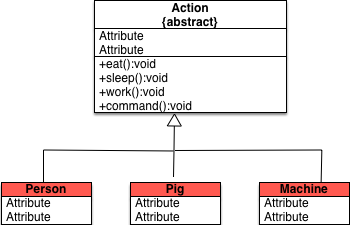
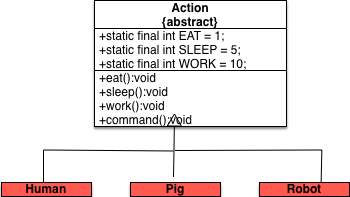
modify files

Changed region(s): [[0.0, 0.0, 1.0, 1.0]]

diff --git a/object_programming/class_object/README.MD b/object_programming/class_object/README.MD
@@ -687,11 +687,84 @@ public class TestDemo {
 #### 举例
 
 ```java
+abstract class Action {
+    public static final int EAT = 1;
+    public static final int SLEEP = 5;
+    public static final int WORK = 10;
+    public abstract void eat();
+    public abstract void sleep();
+    public abstract void work();
+    public void command(int cmd) {
+        switch(cmd) {
+            case EAT:
+                this.eat();
+                break;
+            case SLEEP:
+                this.sleep();
+                break;
+            case WORK:
+                this.work();
+                break; 
+            case WORK+EAT+SLEEP:
+                this.eat();
+                this.sleep();
+                this.work();
+                break; 
+        }
+    }
+}
 
+class Human extends Action {
+    public void eat(){
+        System.out.println("Human eat");
+    }
+    public void sleep(){
+        System.out.println("Human sleep");
+    }
+    public void work(){
+        System.out.println("Human work");
+    }
+}
+
+class Pig extends Action {
+    public void eat(){
+        System.out.println("Pig eat");
+    }
+    public void sleep(){
+        System.out.println("Pig sleep");
+    }
+    public void work(){}
+}
+
+class Robot extends Action {
+    public void eat(){
+        System.out.println("Robot eat");
+    }
+    public void sleep(){}
+    public void work(){
+        System.out.println("Robot work");
+    }
+}
+
+public class TestDemo {
+    public static void main(String[] args) {
+        fun(Human);
+    }
+    public static void fun(Action action) {
+        action.command(Action.EAT + Action.SLEEP + Action.WORK);
+    }
+}
+```
+
+```
+Note:
+1、抽象类在实际的使用过程之中会定义一些固化的模式，它只会接收几种特定的指令
+2、每种指令的具体实现由子类负责完成，父类只负责进行方法的约定
 ```
 
 
 
+### 接口
 
 
 
